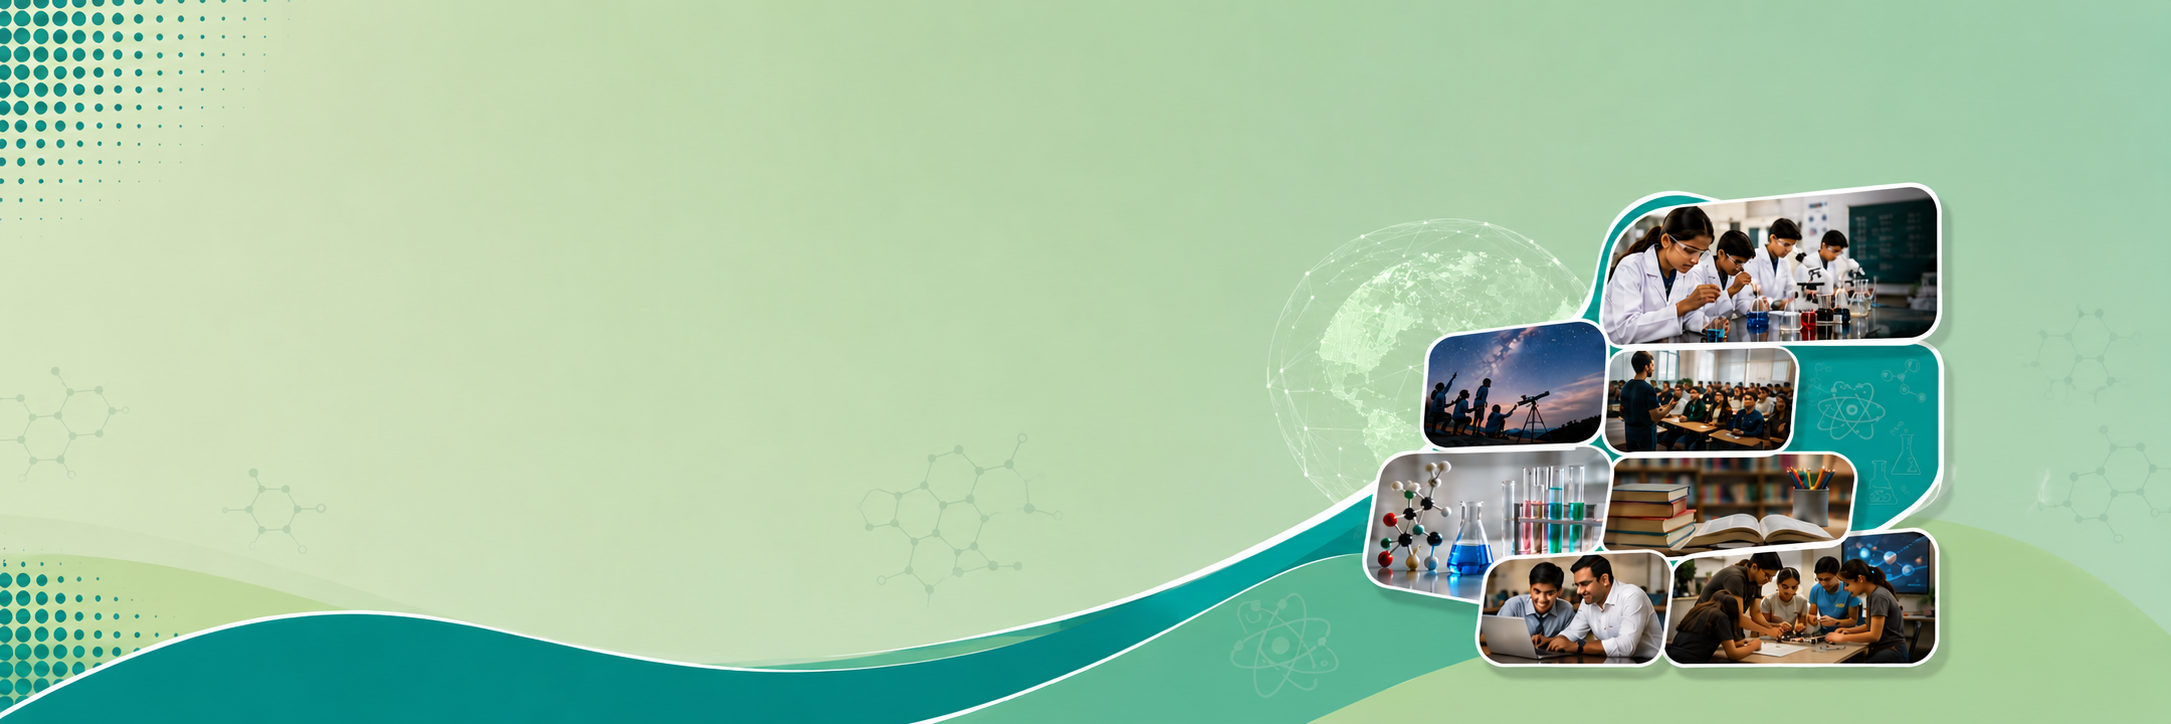
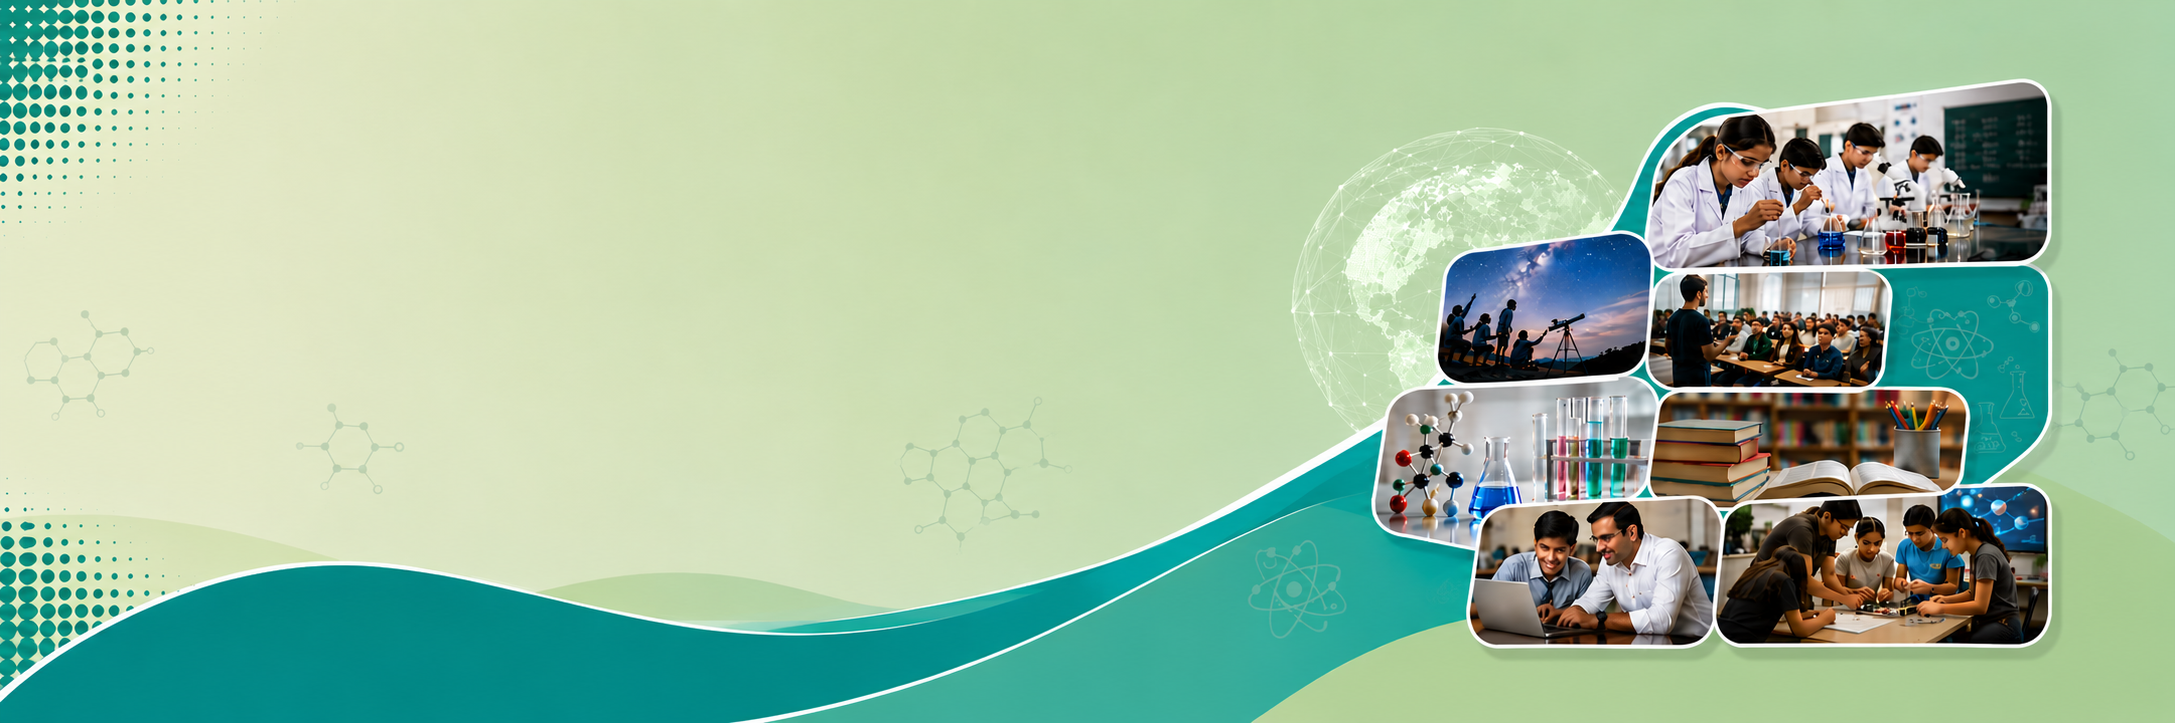
fixes

diff --git a/programs-backup.html b/programs-backup.html
@@ -26,15 +26,16 @@
             background-color: transparent;
             background-repeat: no-repeat;
             background-size: cover;
-            background-position: 50% 100%;
-            border-radius: 15px;
+            background-position: 50% 50%;
+            border-radius: 20px;
             display: flex;
             min-height: 300px;
             padding: 50px 30px;
             position: relative;
             overflow: hidden;
             box-shadow: 0 16px 40px rgba(0, 0, 0, 0.12);
-            animation: fadeIn 1s ease both, bannerDrift 12s ease-in-out infinite;
+            animation: fadeIn 1s ease both,
+                bannerDrift 10s ease-in-out infinite;
         }
 
         @media screen and (max-width: 425px) {
@@ -210,7 +211,7 @@
             font-size: 24px;
             font-weight: 600;
             margin-bottom: 18px;
-            line-height: 1.4;
+            line-height: 1.2;
             color: #1e1e1e;
         }
 
@@ -266,8 +267,8 @@
             justify-content: center;
             align-items: stretch;
             padding: 12px;
-            background: rgba(255, 255, 255, 0.9);
-            border: 1px solid rgba(34, 34, 34, 0.08);
+            background: linear-gradient(180deg, rgba(255, 255, 255, 0.5) 0%, rgba(242, 243, 238, 0.5) 100%);
+            /* border: 1px solid rgba(255, 255, 255, 0.5); */
             border-radius: 22px;
             box-shadow: 0 18px 45px rgba(0, 0, 0, 0.05);
         }
@@ -287,23 +288,24 @@
             text-align: center;
             padding: 14px 18px;
             border-radius: 16px;
-            border: 1px solid transparent;
-            background: linear-gradient(180deg, #fbf8f1 0%, #e7ecc0 100%);
+            /* border: 1px solid rgba(13, 110, 253, 0.12); */
+            background: linear-gradient(180deg, #fcfaf5 0%, #dfd7a8 100%);
             color: #242218;
             font-weight: 700;
             transition: transform 0.25s ease, box-shadow 0.25s ease, background-color 0.25s ease, border-color 0.25s ease;
             box-shadow: inset 0 0 0 rgba(0, 0, 0, 0);
+            position: relative;
         }
-
         .custom-tabs .nav-link:hover,
         .custom-tabs .nav-link:focus {
             background: linear-gradient(135deg, #0d5c4d 0%, #1a8570 100%);
             color: #fff;
             transform: translateY(-1px);
-            border-color: rgba(13, 110, 253, 0.2);
+            /* border-color: rgba(13, 110, 253, 0.2); */
             box-shadow: 0 12px 28px rgba(0, 0, 0, 0.08);
             outline: none;
             transition: background-color 0.3s linear;
+            overflow: hidden;
         }
 
         .custom-tabs .nav-link.active {
@@ -316,7 +318,7 @@
             z-index: 2;
         }
 
-        .custom-tabs .nav-link.active::after {
+        /* .custom-tabs .nav-link.active::after {
             content: '';
             position: absolute;
             bottom: -10px;
@@ -327,7 +329,7 @@
             border-radius: 999px;
             background: #ff9800;
             box-shadow: 0 6px 16px rgba(255, 152, 0, 0.35);
-        }
+        } */
 
         .custom-tabs .nav-link.active i,
         .custom-tabs .nav-link i {
@@ -377,7 +379,7 @@
             }
 
             .tab-content-box {
-                padding: 18px 16px;
+                padding: 18px 5px;
             }
         }
     </style>

diff --git a/assets/css/style.css b/assets/css/style.css
@@ -840,10 +840,11 @@ img.icon-insta {
 }
 .section-title::after {
     content: '';
-    width: 5rem;
+    width: 6rem;
     height: 5px;
-    background-color: #a7caa4;
+    background: linear-gradient(to right,#f59e0b,#84cc16);
     position: absolute;
+    border-radius: 10000px;
     bottom: -12px;
     left: 0;
 } 
@@ -4798,8 +4799,8 @@ blockquote p {
         width: auto
     }
     .page_title {
-        font-size: 48px;
-        line-height: 54px
+        font-size: 36px;
+        line-height: 40px
     }
     .page_banner .info_list,
     .page_banner .meta_info_list {
@@ -5345,10 +5346,10 @@ blockquote p {
     .calltoaction_form {
         padding: 30px 20px
     }
-    .page_title {
+    /* .page_title {
         font-size: 54px;
         line-height: 60px
-    }
+    } */
     /* .page_banner .content_wrapper {
         padding: 70px 25px;
     } */
@@ -5421,10 +5422,10 @@ blockquote p {
     .site_header.sticky .main_menu {
         top: 56px
     }
-    .page_title {
+    /* .page_title {
         font-size: 36px;
         line-height: 40px
-    }
+    } */
     .breadcrumb_nav {
         margin-bottom: 16px
     }
@@ -18744,7 +18745,7 @@ ol[type="1"]>li:not(:last-child) {
 .heading_text {
     font-size: 1.7rem;
     font-weight: 700;
-    line-height: 38px;
+    line-height: 34px;
     margin-bottom: 24px;
     color:#fe7b14;
 }
@@ -21527,8 +21528,9 @@ blockquote p {
         width: auto
     }
     .page_title {
-        font-size: 48px;
-        line-height: 54px
+        font-size: 1.9rem;
+        line-height: 1.2;
+        margin: 0;
     }
     .page_banner .info_list,
     .page_banner .meta_info_list {
